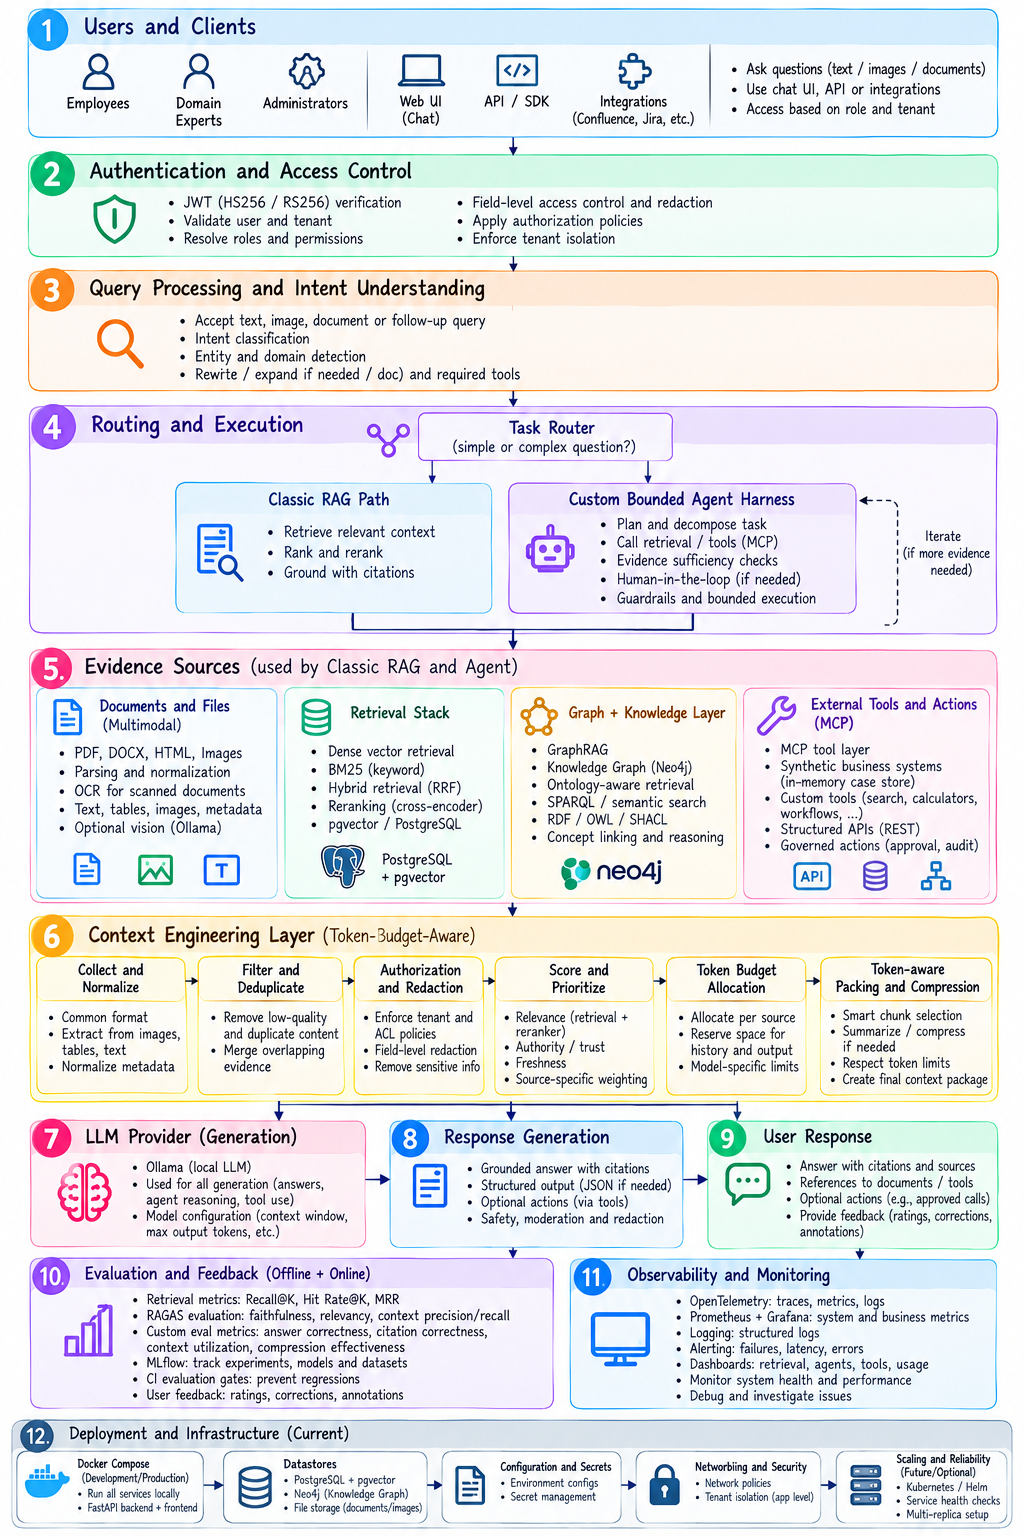
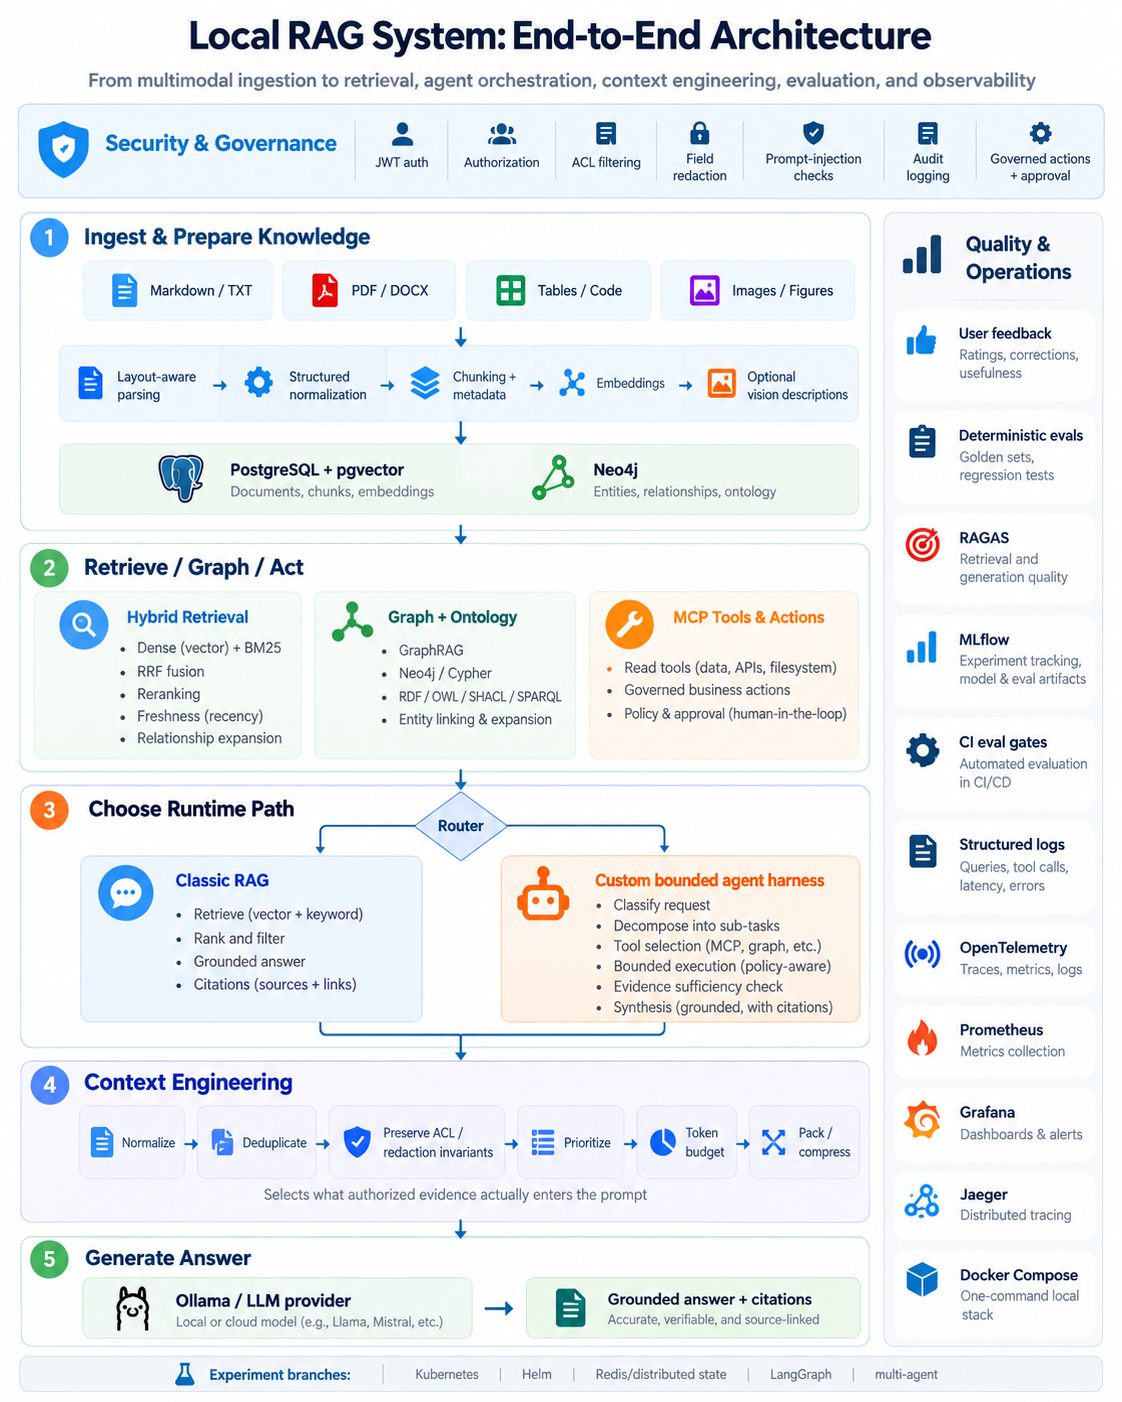
docs: update architecture diagrams
Replaces README's architecture diagram with an updated version, and
adds a second, more detailed end-to-end diagram to docs/architecture.md
(clients/entry points through observability/operations, including the
context engineering layer and experiment branches). Extends the
large-file-check exclusion to cover the new diagram, matching the
existing precedent for the first one.

diff --git a/docs/architecture.md b/docs/architecture.md
@@ -3,6 +3,12 @@
 This is the expanded system view for implementation details, experiments,
 and planned extension points. The README keeps a smaller public-facing view.
 
+![Local RAG System architecture: clients and entry points, ingestion and
+knowledge preparation, retrieval and evidence sources, the RAG/agent
+runtime router, the context engineering layer, generation and synthesis,
+feedback/evaluation/safety, and observability and
+operations](assets/architecture-diagram-detailed.png)
+
 ```mermaid
 flowchart TD
     Client(["Client"])
